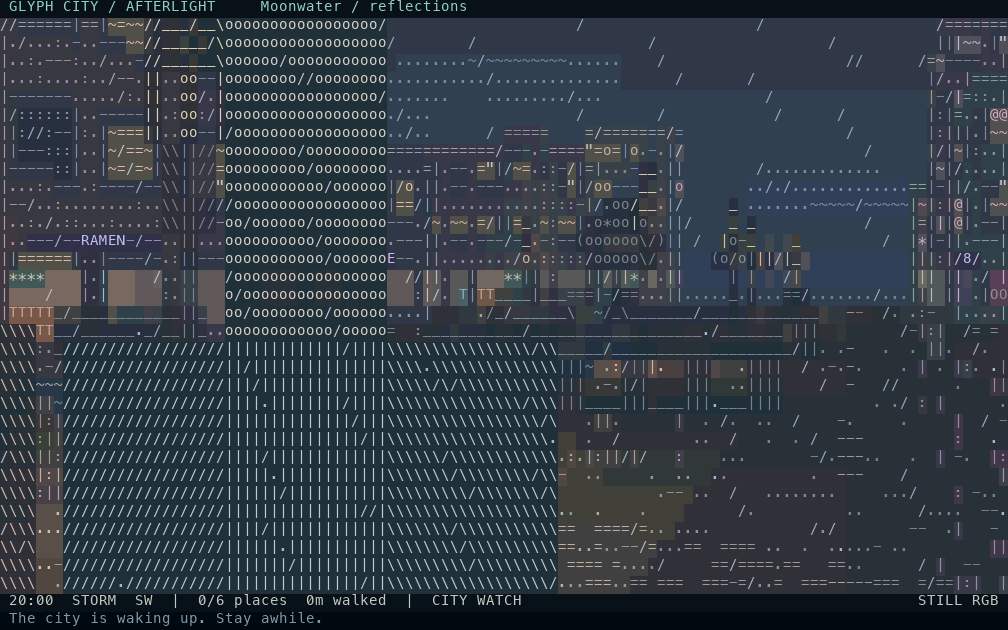
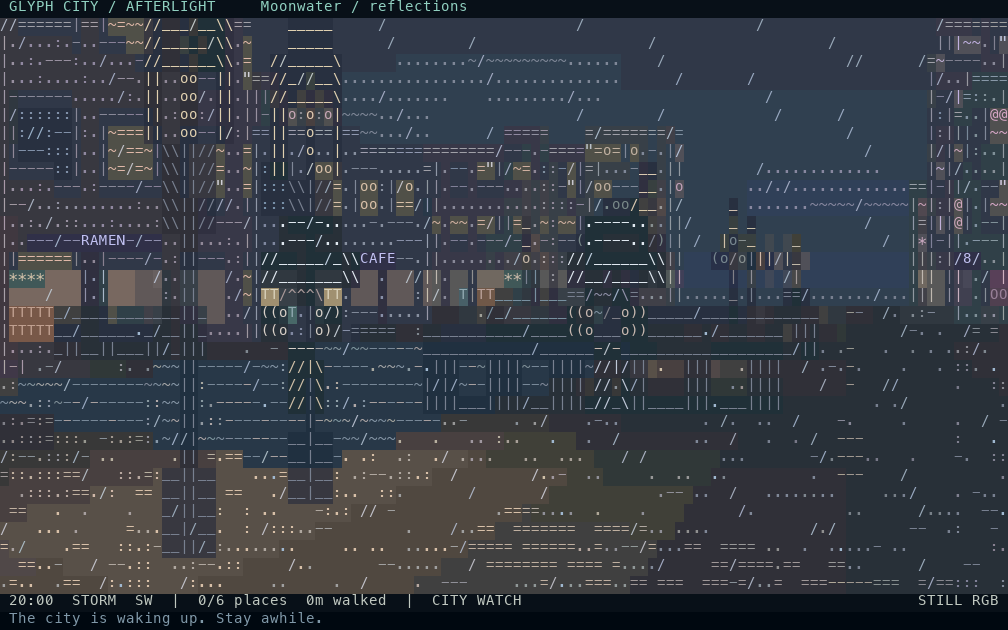
Clarify static views and deepen NPC interactions

diff --git a/glyph_city/living.py b/glyph_city/living.py
@@ -69,6 +69,7 @@ class Resident:
     partner: object = None
     reply_at: float = 0.0
     speech_until: float = 0.0
+    followup: str = ''
 
 
 ROLES = ('barista','gardener','courier','musician','bookseller','photographer','commuter','vendor')
@@ -77,14 +78,44 @@ JOBS = {'barista':'serving tea','gardener':'tending flowers','courier':'deliveri
         'commuter':'reading','vendor':'arranging the stall'}
 EXCHANGES = {
     'barista': (("Your usual? The kettle is ready.", "Yes, and a seat by the window."),
-                ("Try the jasmine tea today.", "Just what I needed after that walk.")),
-    'gardener': (("These flowers finally opened.", "The whole path smells like spring."),),
-    'courier': (("A parcel for you, all dry!", "You made it before the rain."),),
-    'musician': (("One more song before I go?", "Play the one about the river."),),
-    'bookseller': (("I saved that book for you.", "Then my evening is sorted."),),
-    'photographer': (("Look at the light on the water.", "Wait, the boat is coming into frame."),),
-    'commuter': (("Taking the long way home?", "There is no hurry tonight."),),
-    'vendor': (("Fresh tea, last pot of the evening.", "I'll bring a cup to my friend."),),
+                ("Try the jasmine tea today.", "Just what I needed after that walk."),
+                ("The window seat is free again.", "Then I can watch the rain arrive.")),
+    'gardener': (("These flowers finally opened.", "The whole path smells like spring."),
+                 ("The fountain is low tonight.", "I will bring water before sunrise.")),
+    'courier': (("A parcel for you, all dry!", "You made it before the rain."),
+                ("The next delivery is across the canal.", "I know a bridge with a dry lamp.")),
+    'musician': (("One more song before I go?", "Play the one about the river."),
+                 ("Do you hear that train under the bridge?", "I will tune the chorus to it.")),
+    'bookseller': (("I saved that book for you.", "Then my evening is sorted."),
+                   ("The blue cover has a map inside.", "Good. I have been looking for the long way home.")),
+    'photographer': (("Look at the light on the water.", "Wait, the boat is coming into frame."),
+                     ("The neon is reflected twice tonight.", "Hold still. The city is posing.")),
+    'commuter': (("Taking the long way home?", "There is no hurry tonight."),
+                 ("The market is still open.", "Then I have time for one warm cup.")),
+    'vendor': (("Fresh tea, last pot of the evening.", "I'll bring a cup to my friend."),
+               ("The lanterns look brighter from here.", "They always do after the first rain.")),
+}
+
+RAIN_EXCHANGES = {
+    'barista': ("Close the door behind you.", "I will. The street is turning silver."),
+    'gardener': ("The leaves are drinking tonight.", "And the roots will remember it."),
+    'courier': ("Keep this under the awning.", "I have one more dry street to cross."),
+    'musician': ("The rain is keeping time.", "Then I will follow its rhythm."),
+    'bookseller': ("The paper smells like wet pavement.", "That is how I know the storm is near."),
+    'photographer': ("Do not move. Look at the puddle.", "It has the whole skyline in it."),
+    'commuter': ("You can wait here a while.", "The long way is better under cover."),
+    'vendor': ("Two cups beneath the awning?", "Two cups, and one story each."),
+}
+
+FAREWELLS = {
+    'barista': "I will keep the kettle warm for you.",
+    'gardener': "Come back tomorrow; the buds should open.",
+    'courier': "See you after my last delivery.",
+    'musician': "I will save that song for next time.",
+    'bookseller': "Tell me what you think of the ending.",
+    'photographer': "I will show you the picture next time.",
+    'commuter': "Walk with me again tomorrow?",
+    'vendor': "I will save you a cup tomorrow.",
 }
 
 
@@ -95,12 +126,26 @@ class LivingCity:
         self.shelters=tuple(self.network.nearest(p) for p in SHELTERS)
         self.rng=random.Random(world.city.seed+917)
         self.residents=[]
+        occupied=set()
         for i,prop in enumerate(p for p in world.city.props if p.kind=='person'):
             node=self.destinations[i%len(self.destinations)]
             # Start visibly distributed along a valid corridor.
             for _ in range(i%9):
                 neighbors=self.network.edges[node]
                 if neighbors: node=self.rng.choice(neighbors)
+            # Several residents used to land on the same start node. Their
+            # large close-up sprites then became one unreadable bright mass.
+            # Pick the nearest free node on the validated walking graph.
+            if node in occupied:
+                pending=deque([node]); seen=set()
+                while pending:
+                    candidate=pending.popleft()
+                    if candidate in seen: continue
+                    seen.add(candidate)
+                    if candidate not in occupied:
+                        node=candidate; break
+                    pending.extend(sorted(self.network.edges[candidate]))
+            occupied.add(node)
             prop.x,prop.y=node[0]+.5,node[1]+.5
             prop.route=()
             prop.name=NAMES[i%len(NAMES)]+(' '+str(i//len(NAMES)+1) if i>=len(NAMES) else '')
@@ -120,6 +165,7 @@ class LivingCity:
         self.focus=None
         self.history=deque(maxlen=32)
         self.encounters=0
+        self.met_pairs=set()
         self.public_event=None
         self.public_phase=-1
         self.public_next=0.0
@@ -137,9 +183,17 @@ class LivingCity:
                 resident.reply_at=0
                 if resident.partner:
                     partner,line=resident.partner
+                    resident.partner=None
+                    p.dialogue=''
                     partner.prop.dialogue=line; partner.speech_until=world.time+6
+                    partner.prop.activity='chatting'
+                    self.focus=partner.prop
                     self.caption=f'{partner.prop.name}: "{line}"'
                     self.history.append(self.caption)
+                    if resident.followup:
+                        partner.reply_at=world.time+4
+                        partner.partner=(resident,resident.followup)
+                        resident.followup=''
             if world.time<resident.social_until:
                 continue
             # Offset shifts avoid the entire population turning at the same instant.
@@ -201,14 +255,20 @@ class LivingCity:
                     math.hypot(r.prop.x-speaker.prop.x,r.prop.y-speaker.prop.y)<3.5),None)
                 if partner:
                     lines=self.rng.choice(EXCHANGES[speaker.role])
-                    if raining: lines=("Plenty of room under this awning.","Thank you. I'll wait for the rain to ease.")
-                    speaker.prop.dialogue=lines[0]; speaker.speech_until=world.time+5
+                    if raining: lines=RAIN_EXCHANGES[speaker.role]
+                    pair=tuple(sorted((speaker.prop.name,partner.prop.name)))
+                    opening=lines[0]
+                    if pair in self.met_pairs:
+                        opening=f"Good to see you, {partner.prop.name}. "+opening
+                    self.met_pairs.add(pair)
+                    speaker.prop.dialogue=opening; speaker.speech_until=world.time+5
                     speaker.reply_at=world.time+4; speaker.partner=(partner,lines[1])
+                    speaker.followup=FAREWELLS[speaker.role]
                     for r in (speaker,partner):
-                        r.social_until=world.time+11; r.next_chat=world.time+self.rng.uniform(55,100)
+                        r.social_until=world.time+15; r.next_chat=world.time+self.rng.uniform(55,100)
                         r.prop.activity='chatting'
                     self.encounters+=1; self.focus=speaker.prop
-                    self.caption=f'{speaker.prop.name}: "{lines[0]}"'
+                    self.caption=f'{speaker.prop.name}: "{opening}"'
                     self.history.append(self.caption)
                     break
         if world.time>=self.next_event:
@@ -256,6 +316,12 @@ class LivingCity:
             script=((first,'looking up',f'{first.prop.name}: Did the whole street just go dark?'),
                     (second,'using a phone light',f'{second.prop.name}: Give it a moment. Listen to the rain.'),
                     (first,'watching lights return',f'{first.prop.name}: There they are.'))
+        # Public scenes take over their actors without an old chat replying
+        # halfway through the new scene.
+        actors={id(actor) for actor,_,_ in script}
+        for resident in self.residents:
+            if id(resident) in actors or (resident.partner and id(resident.partner[0]) in actors):
+                resident.reply_at=0; resident.partner=None; resident.followup=''
         self.public_event={'kind':kind,'script':script}
         self.public_phase=-1; self.public_next=world.time
         self.event_kind=kind; self.event_until=world.time+25

diff --git a/glyph_city/render.py b/glyph_city/render.py
@@ -280,11 +280,18 @@ class Renderer:
                         if strength and coords is not None:
                             rx,ry = coords
                             if (self.surface[rr][c]<0 and dist<reflection_depth[rr][c]
-                                    and reflection_noise(rx,ry,city.seed,reflection_tick_value)%5!=0):
+                                    and dist<32
+                                    and reflection_noise(rx,ry,city.seed,reflection_tick_value)%9!=0):
                                 oldch,oldfg,oldbg = buf[rr][c]
-                                alpha = world.wet*strength*(.15+.3*self.night)
-                                buf[rr][c] = cell('|' if (rr+c)%3 else ':',mix(oldfg,fg,alpha),mix(oldbg,fg,alpha*.45))
-                                reflection_depth[rr][c] = dist
+                                # Reflections are glints on the pavement, not
+                                # a second opaque wall. Preserve lane marks,
+                                # sprites and existing road texture.
+                                if oldch in (' ','.',':','~'):
+                                    alpha = world.wet*strength*(.045+.11*self.night)
+                                    buf[rr][c] = cell(':' if (rr+c)%4 else '.',
+                                                      mix(oldfg,fg,alpha),
+                                                      mix(oldbg,fg,alpha*.22))
+                                    reflection_depth[rr][c] = dist
         self._building_edges()
         self._signs(ca,sa)
         for prop in sorted(city.props,key=lambda p: -((p.x-world.x)**2+(p.y-world.y)**2)):
@@ -417,7 +424,7 @@ class Renderer:
         ch,fg,bg=room_pixel(b.sign,span,depth,u,z,direction)
         length=math.hypot(direction[0],direction[1])
         grazing=1-direction[1]/max(length,1e-6)
-        reflection=.045+.23*grazing**3
+        reflection=.025+.11*grazing**3
         fg=mix(fg,(131,174,191),reflection)
         bg=mix(bg,self.fog,reflection)
         # A narrow continuous streak leaves most of the view transparent.
@@ -535,6 +542,7 @@ class Renderer:
         lateral=-dx*sa+dy*ca
         lod = self.sprite_lod(p, z)
         art,width,height = LOD_ART[p.kind] if lod == 0 else ART[p.kind]
+        person_scale=1.0
         if p.kind=='person':
             pose=int(self.world.time*3+p.phase)%2
             if p.umbrella:
@@ -549,10 +557,50 @@ class Renderer:
                 art=('  o  ',' [o] ','  |  ',' / \\ ')
             elif p.activity=='tending flowers':
                 art=('   ',' o_','/|/','/ \\'); height=1.2
+            # At close range reserve extra cells for hair, eyes and a face
+            # instead of using the compact walking glyph.
+            close_detail=height*self.fy/max(z,.35)>=7.0
+            identity=int(p.phase*13)%3
+            hair=(' /^^\\ ',' /~~\\ ',' /##\\ ')[identity]
+            eyes='(-  -) ' if (self.world.time+p.phase)%5<.16 else '(o  o) '
+            if close_detail and p.umbrella:
+                art=(' .---. ','/_____\\',hair,eyes,'  --   ','  /|\\  ','  / \\  ')
+            elif close_detail:
+                if p.activity in ('reading','sorting books'):
+                    art=(hair,eyes,'  --   ',' [=]  ','  |   ',' / \\  ')
+                elif p.activity=='playing music':
+                    art=(hair,eyes,'  --   ',' /|D\\ ',' /|   ',' / \\  ')
+                elif p.activity=='taking photos':
+                    art=(hair,eyes,'  --   ',' [o]  ','  |   ',' / \\  ')
+                else:
+                    art=(hair,eyes,'  --   ',' /|\\  ',' /|   ' if pose and p.activity=='walking' else '  |   ',' / \\  ')
+                width=1.08; height=2.2
+            # Crowd LOD keeps a fixed composition readable. Far residents
+            # remain visible as moving beacons, while only nearby residents
+            # spend cells on faces and clothing detail.
+            if z>30:
+                art=('.' if not p.umbrella else '-',); width=.42; height=.72
+            elif z>16 and not close_detail:
+                if p.umbrella:
+                    art=(' .-. ','| o |',' /|\\ ',' / \\ '); width=.82; height=1.65
+                else:
+                    art=(' o ','/|\\','/ \\'); width=.62; height=1.55
+            projected=height*self.fy/max(z,.35)
+            max_person_height=min(10.0,self.rows*.45)
+            if projected>max_person_height:
+                scale_factor=max_person_height/projected
+                width*=scale_factor; height*=scale_factor
+                person_scale=scale_factor
         aw=max(map(len,art)); ah=len(art)
         sx=self.cols/2+lateral*self.fx/z
-        bottom=self.horizon+self.eye*self.fy/z
+        # Compress the whole near-person projection around the horizon.
+        # Shrinking only its height would push its face below the screen.
+        bottom=self.horizon+self.eye*self.fy/z*person_scale
         pw,ph=width*self.fx/z,height*self.fy/z
+        if p.kind=='person':
+            # Terminal cells are tall: unrestricted horizontal magnification
+            # repeats each eye/hair glyph and makes faces look like fences.
+            pw=min(pw,ph*aw/ah*1.2)
         left,top=sx-pw/2,bottom-ph
         if left>=self.cols or left+pw<0: return
         for r in range(max(0,math.floor(top)),min(self.rows,math.ceil(bottom))):
@@ -570,10 +618,16 @@ class Renderer:
                 elif p.kind=='flowers': color=(230,139,163) if ar<2 else (150,125,103)
                 elif p.kind=='person':
                     role_color=PERSON_COLORS.get(getattr(p,'role',''),p.color)
+                    hair_color=((143,104,78),(92,85,109),(190,152,105))[identity]
+                    skin_color=((255,214,175),(213,165,130),(184,130,99))[identity]
                     if p.umbrella:
                         # The canopy catches sky light; the body stays a
                         # distinct role color beneath it.
-                        color=((245,250,255) if ar<2 else role_color)
+                        color=((245,250,255) if ar<2 else
+                               hair_color if close_detail and ar==2 else
+                               skin_color if close_detail and ar in (3,4) else role_color)
+                    elif close_detail:
+                        color=(hair_color if ar==0 else skin_color if ar in (1,2) else role_color)
                     else:
                         color=(255,214,175) if ar==0 else role_color
                 luminous=(p.kind=='lamp' and ar<3) or (p.kind=='car' and ch=='o')
@@ -586,8 +640,8 @@ class Renderer:
                 self.buffer[r][c]=cell(ch,color,mix(bg,(6,12,20),.82 if p.kind=='person' else .6))
                 self.depth[r][c]=z
         focus=getattr(getattr(self.world,'life',None),'focus',None)
-        # Keep the watch overlay readable: one active speaker plus only the
-        # closest silhouettes get labels. Distant names used to pile into a
+        # Keep the watch overlay readable: only the active speaker gets a
+        # label. Distant names used to pile into a
         # single line and hide the actual people underneath.
         show_label=(p is focus)
         if (getattr(self.world,'show_names',False)

diff --git a/tools/make_previews.py b/tools/make_previews.py
@@ -37,6 +37,7 @@ def draw_frame(cells, path):
 def build_world(hour, weather):
     world=make_world(hour=hour,weather=weather)
     world.life=LivingCity(world)
+    world.life.update(world,0)
     world.observing=True; world.show_names=True
     return world
 

diff --git a/CHANGELOG.md b/CHANGELOG.md
@@ -2,6 +2,9 @@
 
 ## Current development
 
+- Reduced wet-road and glass reflection glare to preserve static-view silhouettes and road markings.
+- Added close-range resident faces, varied hair and skin colors, blinking eyes, and clearer umbrellas, with bounded sprite sizes and simpler distant crowds.
+- Distributed initial residents across distinct walkable cells and expanded ambient conversations to three turns, with weather-specific lines and remembered encounters.
 - Added zero-player City Watch with named residents, roles, routines, shelters, conversations, staged public events, and cinematic event-following cameras.
 - Added ground-floor glass with furnished interiors for shops, cafes, hotels, lounges, bars, and mature venues.
 - Added day/night lighting, rain, storm, mist, reflections, local lamp pools, photo mode, journal, map, boat travel, and persistent album metadata.
